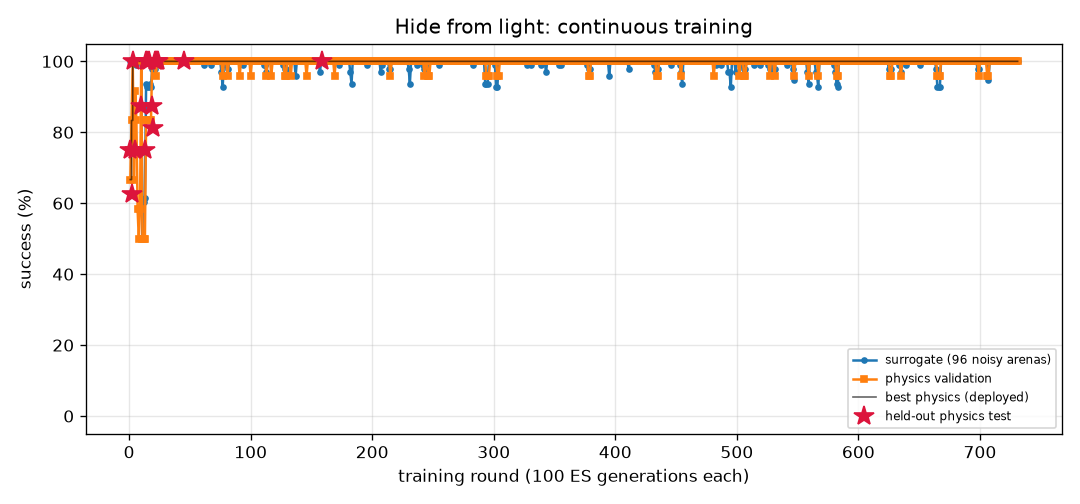
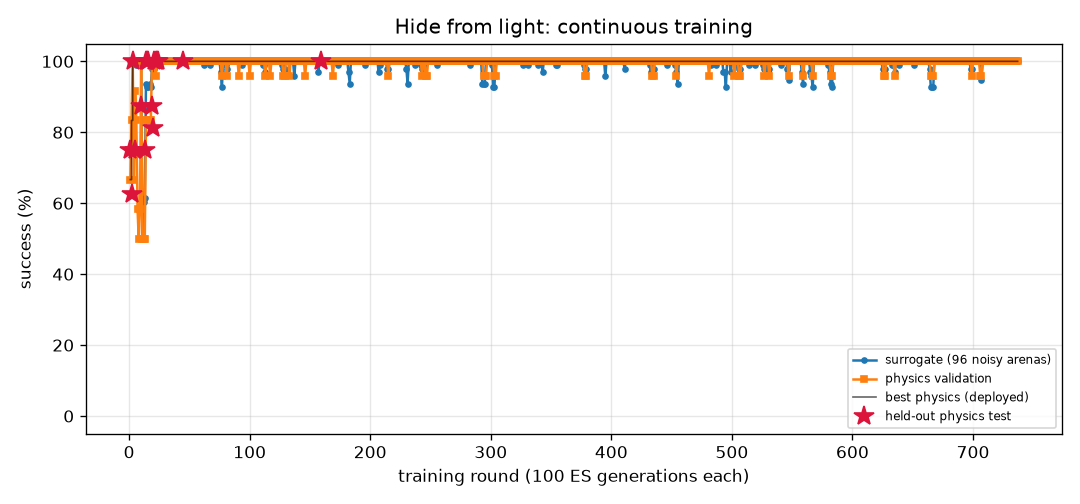
FlyLab: continuous training progress
- walk_forward: optimal, physics val 100% of 24, round 444
- turn: optimal, physics val 100% of 24, round 1192
- goto: optimal, physics val 100% of 24, round 344
- odor_seek: optimal, physics val 100% of 24, round 276
- odor_avoid: optimal, physics val 100% of 24, round 1021
- light_seek: optimal, physics val 100% of 24, round 546
- light_avoid: optimal, physics val 100% of 24, round 737

diff --git a/projects/09_flylab/training/odor_avoid/REPORT.md b/projects/09_flylab/training/odor_avoid/REPORT.md
@@ -1,14 +1,14 @@
 # Escape a bad smell (`odor_avoid`) — training report
 
-*Auto-generated by `train_brains.py`, last updated 2026-11-19T23:46:27.*
+*Auto-generated by `train_brains.py`, last updated 2026-11-20T11:23:37.*
 
 ![curve](curve.png)
 
 | | |
 |---|---|
-| rounds | 1014 |
-| ES generations | 101400 |
-| physics runs | 21642 |
+| rounds | 1021 |
+| ES generations | 102100 |
+| physics runs | 21810 |
 | status | **optimal** |
 | best brain | round 373: physics validation **100%** on 24 arenas, surrogate 97% |
 | held-out physics test | **97%** on 32 unseen arenas (95% CI 84%-99%) (errors: [62.0, 57.4, 62.6, 61.9, 59.0, 61.6, 56.5, 60.7, 31.7, 60.9, 63.1, 57.1, 61.1, 62.1, 61.5, 60.2, 62.2, 55.2, 62.1, 54.2, 61.3, 62.0, 58.0, 61.9, 59.8, 56.5, 56.3, 56.4, 56.3, 57.7, 61.9, 32.4]) |
@@ -17,13 +17,6 @@ Physics error per arena: mm gained away from source (> 6 without first approachi
 
 | round | level | gens | sigma | surrogate | physics val | val errors | test | note |
 |---:|---:|---:|---:|---:|---:|---|---:|---|
-| 975 | 3 | 97500 | 0.026 | 95% | 96% | [63.1, 61.4, 55.3, 61.3, 62.6, 62.4, 61.3, 62.4, 61.6, 50.9, 50.6, 61.5, 48.0, 55.0, 29.8, 62.6, 61.9, 61.9, 54.1, 60.4, 61.7, 63.1, 56.7, 63.4] |  |  |
-| 976 | 3 | 97600 | 0.027 | 95% | 96% | [62.7, 59.4, 55.8, 59.0, 60.1, 52.3, 61.0, 62.2, 59.4, 49.6, 31.5, 61.1, 50.9, 55.4, 29.8, 60.8, 60.9, 58.6, 52.7, 58.9, 61.3, 62.8, 56.4, 62.7] |  |  |
-| 977 | 3 | 97700 | 0.027 | 95% | 100% | [62.6, 56.7, 57.9, 56.6, 60.6, 60.5, 59.9, 18.4, 59.2, 37.2, 58.9, 60.9, 52.4, 55.5, 40.6, 61.6, 61.4, 60.5, 54.4, 56.9, 61.6, 49.8, 56.8, 61.8] |  | restart from best |
-| 978 | 3 | 97800 | 0.026 | 97% | 96% | [63.4, 57.7, 56.1, 61.4, 62.4, 62.0, 61.8, 45.4, 60.8, 59.7, 62.3, 61.8, 55.1, 56.2, 40.9, 61.4, 62.6, 60.7, 55.2, 55.7, 62.1, 60.7, 58.7, 58.3] |  |  |
-| 979 | 3 | 97900 | 0.026 | 94% | 92% | [62.3, 59.4, 56.5, 57.4, 61.1, 62.0, 60.2, 56.9, 60.5, 59.5, 60.6, 61.3, 47.4, 55.9, 42.7, 61.6, 61.9, 62.4, 54.9, 56.5, 62.0, 59.3, 58.0, 36.0] |  |  |
-| 980 | 3 | 98000 | 0.028 | 95% | 100% | [62.4, 59.6, 56.1, 60.8, 60.8, 60.0, 61.9, 38.7, 61.7, 49.6, 57.1, 61.5, 49.8, 52.4, 41.6, 60.7, 61.9, 61.6, 53.7, 56.4, 61.7, 50.2, 59.6, 52.4] |  |  |
-| 981 | 3 | 98100 | 0.027 | 97% | 96% | [63.5, 58.8, 56.0, 58.1, 61.9, 62.9, 61.3, 57.7, 60.2, 61.5, 61.4, 62.2, 54.8, 56.4, 45.6, 61.3, 62.4, 62.6, 55.3, 54.0, 62.4, 61.5, 57.4, 60.2] |  | restart from best |
 | 982 | 3 | 98200 | 0.026 | 97% | 96% | [62.9, 59.0, 56.3, 61.6, 62.3, 62.4, 61.7, 29.7, 61.0, 60.2, 62.0, 62.4, 52.0, 54.2, 33.5, 61.7, 62.3, 61.4, 55.4, 56.8, 62.5, 58.7, 59.2, 50.2] |  |  |
 | 983 | 3 | 98300 | 0.026 | 96% | 96% | [62.0, 59.8, 56.0, 59.6, 61.4, 61.8, 62.2, 27.2, 62.1, 43.2, 61.3, 61.8, 52.3, 54.6, 30.3, 60.9, 61.9, 60.6, 54.4, 56.5, 61.7, 57.7, 59.8, 49.5] |  |  |
 | 984 | 3 | 98400 | 0.026 | 97% | 92% | [59.4, 54.6, 55.2, 56.3, 59.9, 47.5, 59.9, 2.8, 58.2, 15.6, 3.6, 60.0, 46.9, 52.5, 41.6, 58.9, 59.6, 38.3, 48.8, 52.6, 59.9, 35.0, 55.3, 18.9] |  |  |
@@ -57,3 +50,10 @@ Physics error per arena: mm gained away from source (> 6 without first approachi
 | 1012 | 3 | 101200 | 0.026 | 95% | 96% | [59.4, 55.7, 55.6, 56.3, 60.5, 60.3, 59.4, 15.8, 59.5, 46.1, 33.3, 61.4, 51.1, 55.1, 38.3, 60.5, 61.0, 60.4, 54.5, 54.4, 61.4, 31.0, 56.2, 30.5] |  |  |
 | 1013 | 3 | 101300 | 0.027 | 97% | 96% | [61.2, 59.4, 57.3, 59.9, 60.4, 60.3, 61.3, 44.2, 59.7, 19.2, 35.0, 60.6, 51.5, 56.8, 43.7, 45.9, 60.8, 57.9, 51.8, 58.9, 60.4, 50.8, 59.0, 57.9] |  | restart from best |
 | 1014 | 3 | 101400 | 0.026 | 95% | 100% | [62.4, 60.0, 55.9, 58.1, 62.5, 62.0, 61.3, 45.4, 60.4, 60.1, 62.1, 62.4, 55.0, 56.1, 50.6, 62.2, 62.4, 61.2, 55.3, 56.8, 62.4, 62.1, 58.1, 33.6] |  |  |
+| 1015 | 3 | 101500 | 0.027 | 96% | 96% | [62.5, 60.0, 56.2, 58.3, 61.3, 61.9, 60.1, 54.4, 60.3, 60.0, 61.9, 60.9, 54.5, 57.4, 40.6, 60.9, 61.3, 61.2, 55.1, 57.0, 61.3, 59.5, 57.9, 44.1] |  |  |
+| 1016 | 3 | 101600 | 0.026 | 94% | 100% | [62.4, 59.9, 56.4, 59.9, 61.5, 62.0, 61.5, 42.4, 62.4, 51.9, 41.6, 61.6, 47.8, 55.6, 31.4, 62.1, 61.5, 61.3, 52.4, 56.8, 61.8, 62.4, 59.7, 61.9] |  |  |
+| 1017 | 3 | 101700 | 0.028 | 97% | 96% | [61.2, 54.0, 56.1, 54.2, 61.2, 62.0, 59.8, 35.6, 59.2, 60.0, 32.0, 61.5, 50.2, 56.1, 36.1, 61.3, 61.5, 61.8, 53.4, 52.1, 61.3, 61.0, 55.6, 48.9] |  | restart from best |
+| 1018 | 3 | 101800 | 0.026 | 96% | 96% | [63.0, 61.1, 55.1, 61.4, 61.3, 52.5, 61.2, 62.2, 62.0, 57.4, 28.3, 61.3, 47.5, 55.4, 29.9, 57.4, 61.7, 60.2, 55.0, 60.8, 61.3, 62.6, 60.2, 62.9] |  |  |
+| 1019 | 3 | 101900 | 0.026 | 95% | 100% | [63.5, 61.2, 55.3, 61.7, 61.8, 55.4, 61.5, 62.3, 61.6, 59.8, 53.1, 61.4, 47.3, 53.7, 29.3, 61.5, 61.9, 47.4, 54.6, 59.8, 61.7, 61.9, 60.0, 62.5] |  |  |
+| 1020 | 3 | 102000 | 0.027 | 97% | 96% | [62.4, 61.0, 57.1, 57.1, 61.4, 61.6, 60.4, 48.5, 61.6, 60.9, 46.7, 61.1, 50.4, 56.0, 20.0, 55.8, 61.2, 61.8, 51.4, 59.2, 61.3, 58.2, 59.5, 60.9] |  |  |
+| 1021 | 3 | 102100 | 0.026 | 96% | 96% | [61.8, 56.4, 56.5, 58.9, 60.8, 61.3, 60.6, 24.7, 61.1, 60.4, 60.6, 61.2, 51.3, 56.9, 45.5, 55.7, 61.1, 61.5, 55.2, 57.2, 61.0, 54.1, 58.7, 52.4] |  | restart from best |

diff --git a/projects/09_flylab/training/light_avoid/REPORT.md b/projects/09_flylab/training/light_avoid/REPORT.md
@@ -1,14 +1,14 @@
 # Hide from light (`light_avoid`) — training report
 
-*Auto-generated by `train_brains.py`, last updated 2026-11-19T23:46:48.*
+*Auto-generated by `train_brains.py`, last updated 2026-11-20T11:21:27.*
 
 ![curve](curve.png)
 
 | | |
 |---|---|
-| rounds | 731 |
-| ES generations | 73100 |
-| physics runs | 17816 |
+| rounds | 737 |
+| ES generations | 73700 |
+| physics runs | 17960 |
 | status | **optimal** |
 | best brain | round 159: physics validation **100%** on 24 arenas, surrogate 100% |
 | held-out physics test | **100%** on 32 unseen arenas (95% CI 89%-100%) (errors: [14.4, 56.1, 58.0, 57.9, 57.5, 14.0, 14.4, 56.6, 56.8, 13.3, 14.1, 56.6, 57.6, 13.1, 57.3, 55.9, 57.2, 55.0, 55.2, 53.9, 55.2, 12.4, 53.8, 53.7, 14.1, 13.7, 55.0, 57.8, 56.2, 13.1, 52.8, 56.5]) |
@@ -17,12 +17,6 @@ Physics error per arena: mm gained away from source (> 6 without first approachi
 
 | round | level | gens | sigma | surrogate | physics val | val errors | test | note |
 |---:|---:|---:|---:|---:|---:|---|---:|---|
-| 692 | 3 | 69200 | 0.024 | 100% | 100% | [54.4, 56.7, 56.9, 54.6, 53.0, 54.3, 56.8, 14.5, 43.7, 13.5, 49.6, 52.6, 14.4, 51.0, 56.7, 54.5, 14.2, 54.0, 56.5, 14.4, 54.0, 52.0, 56.1, 51.7] |  |  |
-| 693 | 3 | 69300 | 0.024 | 100% | 100% | [42.1, 43.9, 44.4, 41.4, 40.3, 41.3, 44.6, 14.5, 39.5, 13.3, 39.3, 39.6, 14.4, 39.8, 44.5, 42.0, 14.2, 41.7, 44.6, 14.4, 37.8, 41.0, 45.1, 38.8] |  |  |
-| 694 | 3 | 69400 | 0.024 | 100% | 100% | [57.4, 61.7, 61.5, 59.1, 60.4, 59.2, 60.6, 14.5, 57.1, 13.5, 58.1, 60.1, 14.4, 58.2, 61.7, 59.7, 14.2, 61.0, 62.0, 14.4, 58.4, 58.6, 60.3, 59.5] |  |  |
-| 695 | 3 | 69500 | 0.024 | 100% | 100% | [53.7, 57.8, 57.8, 55.3, 53.9, 54.7, 57.6, 14.5, 12.8, 13.4, 50.5, 53.7, 14.4, 51.8, 57.9, 55.3, 14.2, 55.2, 57.3, 14.4, 54.6, 53.1, 57.0, 52.3] |  | restart from best |
-| 696 | 3 | 69600 | 0.024 | 100% | 100% | [42.6, 39.5, 39.7, 42.5, 44.4, 41.5, 39.0, 14.5, 35.1, 13.5, 43.7, 44.5, 14.4, 44.3, 39.7, 41.8, 14.2, 44.4, 39.6, 14.4, 41.5, 42.7, 38.0, 42.1] |  |  |
-| 697 | 3 | 69700 | 0.024 | 100% | 100% | [55.8, 58.2, 58.2, 56.3, 56.0, 55.4, 57.6, 14.5, 12.9, 13.4, 54.5, 55.7, 14.4, 53.5, 58.3, 55.3, 14.2, 56.7, 58.4, 14.4, 55.3, 54.5, 57.2, 54.8] |  |  |
 | 698 | 3 | 69800 | 0.024 | 98% | 100% | [49.8, 49.5, 49.7, 49.3, 44.8, 49.1, 50.3, 14.5, 13.0, 13.4, 10.2, 43.7, 14.4, 37.7, 49.7, 49.8, 14.2, 45.7, 49.8, 14.4, 49.7, 11.2, 50.3, 43.3] |  |  |
 | 699 | 3 | 69900 | 0.025 | 98% | 96% | [46.8, 49.0, 48.9, 47.5, 46.8, 47.4, 48.3, 14.5, 13.0, 13.4, 10.2, 46.3, 14.4, 8.0, 49.1, 46.8, 14.2, 47.3, 49.6, 14.4, 47.8, 11.3, 47.6, 45.8] |  | restart from best |
 | 700 | 3 | 70000 | 0.024 | 100% | 100% | [52.4, 53.7, 53.5, 52.6, 53.6, 53.1, 52.3, 14.5, 51.6, 13.4, 53.5, 53.4, 14.3, 51.7, 53.7, 52.7, 14.2, 53.9, 54.1, 14.4, 52.2, 53.4, 51.9, 52.9] |  |  |
@@ -57,3 +51,9 @@ Physics error per arena: mm gained away from source (> 6 without first approachi
 | 729 | 3 | 72900 | 0.024 | 100% | 100% | [42.3, 46.2, 44.1, 43.6, 46.8, 43.4, 43.0, 14.5, 45.5, 13.3, 47.1, 46.9, 14.4, 46.7, 44.8, 46.2, 14.2, 46.5, 46.0, 14.4, 43.3, 47.0, 42.9, 47.2] |  |  |
 | 730 | 3 | 73000 | 0.024 | 100% | 100% | [55.5, 59.2, 59.0, 55.8, 58.9, 55.8, 57.8, 14.5, 40.2, 13.3, 58.9, 58.7, 14.4, 56.9, 59.2, 54.6, 14.2, 59.4, 59.5, 14.4, 57.1, 58.7, 57.5, 58.2] |  |  |
 | 731 | 3 | 73100 | 0.024 | 100% | 100% | [44.0, 46.9, 46.1, 45.9, 49.8, 44.9, 45.0, 14.5, 48.8, 13.4, 49.6, 50.2, 14.4, 49.4, 46.3, 46.8, 14.2, 49.4, 46.9, 14.4, 45.4, 49.9, 44.0, 49.9] |  | restart from best |
+| 732 | 3 | 73200 | 0.024 | 100% | 100% | [51.5, 53.5, 53.6, 51.4, 49.6, 51.0, 53.9, 14.5, 45.5, 13.3, 50.4, 49.5, 14.4, 48.5, 53.9, 51.7, 14.2, 50.3, 53.7, 14.4, 49.5, 49.4, 53.2, 48.2] |  |  |
+| 733 | 3 | 73300 | 0.024 | 100% | 100% | [40.9, 40.7, 40.7, 41.5, 44.3, 41.0, 38.3, 14.5, 40.6, 13.4, 43.8, 43.6, 14.4, 43.8, 40.3, 42.3, 14.2, 43.7, 42.1, 14.4, 41.7, 44.4, 38.9, 44.5] |  |  |
+| 734 | 3 | 73400 | 0.024 | 100% | 100% | [35.6, 36.8, 35.3, 37.3, 37.8, 37.0, 34.2, 14.5, 37.4, 13.3, 37.3, 39.0, 14.4, 38.2, 36.1, 37.7, 14.2, 37.8, 35.6, 14.4, 38.1, 38.6, 33.7, 39.0] |  |  |
+| 735 | 3 | 73500 | 0.024 | 100% | 100% | [56.6, 61.9, 61.7, 58.4, 61.6, 58.8, 60.2, 14.5, 57.5, 13.4, 60.5, 61.4, 14.4, 59.2, 61.7, 57.2, 14.2, 62.1, 62.2, 14.4, 59.1, 60.5, 60.0, 60.8] |  | restart from best |
+| 736 | 3 | 73600 | 0.024 | 100% | 100% | [50.2, 51.9, 51.7, 50.3, 50.3, 50.5, 50.9, 14.5, 46.6, 13.5, 51.7, 49.9, 14.4, 49.1, 51.8, 50.3, 14.2, 50.8, 52.1, 14.4, 49.2, 51.5, 50.7, 49.3] |  |  |
+| 737 | 3 | 73700 | 0.024 | 100% | 100% | [48.4, 48.8, 49.1, 48.4, 43.9, 47.8, 49.1, 14.5, 41.1, 13.5, 46.2, 43.6, 14.4, 44.8, 48.8, 48.7, 14.2, 45.7, 48.9, 14.4, 46.9, 45.8, 49.2, 42.6] |  |  |

diff --git a/projects/09_flylab/training/turn/REPORT.md b/projects/09_flylab/training/turn/REPORT.md
@@ -1,14 +1,14 @@
 # Turn in place (`turn`) — training report
 
-*Auto-generated by `train_brains.py`, last updated 2026-11-20T10:20:35.*
+*Auto-generated by `train_brains.py`, last updated 2026-11-20T10:28:01.*
 
 ![curve](curve.png)
 
 | | |
 |---|---|
-| rounds | 1191 |
-| ES generations | 119100 |
-| physics runs | 28830 |
+| rounds | 1192 |
+| ES generations | 119200 |
+| physics runs | 28854 |
 | status | **optimal** |
 | best brain | round 80: physics validation **100%** on 24 arenas, surrogate 100% |
 | held-out physics test | **97%** on 32 unseen arenas (95% CI 84%-99%) (errors: [1.6, 3.3, 6.3, 3.7, 1.1, 0.4, 2.4, 2.9, 0.1, 2.6, 0.5, 2.7, 1.5, 3.1, 4.5, 0.2, 0.5, 1.1, 2.0, 4.4, 2.8, 3.2, 0.3, 2.2, 0.5, 3.0, 0.3, 5.4, 0.4, 1.0, 4.7, 10.7]) |
@@ -17,7 +17,6 @@ Physics error per arena: deg from target heading (< 20 = success).
 
 | round | level | gens | sigma | surrogate | physics val | val errors | test | note |
 |---:|---:|---:|---:|---:|---:|---|---:|---|
-| 1152 | 3 | 115200 | 0.025 | 100% | 100% | [5.3, 8.8, 7.1, 1.6, 0.8, 3.2, 1.5, 0.4, 1.3, 0.7, 1.2, 1.8, 1.3, 4.7, 2.3, 17.4, 1.9, 1.0, 0.3, 1.2, 6.1, 1.1, 2.3, 2.5] |  | restart from best |
 | 1153 | 3 | 115300 | 0.024 | 100% | 67% | [4.1, 2.2, 6.3, 0.0, 0.6, 0.9, 5.4, 10.2, 6.4, 14.3, 5.2, 1.1, 0.2, 1.4, 4.9, 1.6, 0.5, 2.6, 2.4, 2.5, 4.2, 2.9, 7.0, 6.5] |  |  |
 | 1154 | 3 | 115400 | 0.024 | 99% | 75% | [7.2, 11.2, 3.5, 2.2, 4.6, 7.2, 2.0, 0.1, 3.6, 0.1, 2.9, 2.6, 1.5, 4.6, 5.2, 0.4, 2.1, 0.3, 0.6, 1.2, 6.7, 0.1, 4.1, 2.4] |  |  |
 | 1155 | 3 | 115500 | 0.025 | 99% | 88% | [9.3, 6.9, 0.1, 1.8, 9.4, 2.0, 9.8, 10.9, 9.4, 4.1, 5.6, 5.2, 1.0, 1.4, 5.9, 4.3, 5.4, 7.3, 5.0, 9.5, 2.1, 2.6, 9.5, 10.9] |  |  |
@@ -57,3 +56,4 @@ Physics error per arena: deg from target heading (< 20 = success).
 | 1189 | 3 | 118900 | 0.024 | 100% | 88% | [1.5, 4.7, 7.3, 2.1, 4.6, 2.2, 6.7, 7.9, 4.6, 1.3, 5.2, 2.2, 1.3, 0.3, 5.9, 3.7, 0.7, 2.7, 3.5, 3.4, 5.7, 3.0, 5.0, 7.7] |  |  |
 | 1190 | 3 | 119000 | 0.024 | 99% | 75% | [0.9, 3.8, 8.8, 2.2, 0.6, 2.6, 7.9, 9.4, 7.1, 1.8, 6.1, 2.8, 3.2, 1.3, 5.9, 4.0, 0.3, 3.2, 4.1, 4.4, 2.5, 3.0, 9.1, 5.1] |  |  |
 | 1191 | 3 | 119100 | 0.025 | 100% | 96% | [0.4, 1.4, 2.6, 0.3, 1.4, 2.9, 3.9, 5.4, 6.9, 0.9, 3.9, 1.6, 0.4, 1.9, 2.9, 1.9, 1.0, 0.8, 1.6, 1.4, 3.1, 2.0, 5.3, 5.5] |  |  |
+| 1192 | 3 | 119200 | 0.024 | 99% | 71% | [7.2, 6.2, 0.5, 0.3, 2.4, 1.5, 4.3, 5.2, 5.6, 0.9, 5.0, 0.3, 0.2, 2.4, 3.3, 0.3, 0.3, 1.8, 0.0, 0.4, 3.4, 1.2, 5.9, 6.1] |  | restart from best |

diff --git a/projects/09_flylab/training/TRAINING.md b/projects/09_flylab/training/TRAINING.md
@@ -1,15 +1,15 @@
 # FlyLab brains — continuous training log
 
-*Auto-generated by `train_brains.py`, last updated 2026-11-20T10:20:37.*
+*Auto-generated by `train_brains.py`, last updated 2026-11-20T11:23:37.*
 
 Every skill has its own brain and its own training process: surrogate ES rounds, physics validation in MuJoCo, keep-the-best selection, and a held-out physics test that is never used for selection. See each skill's report for its full round-by-round history. Mastery is progressive: passing a level (100% physics validation, >=95% surrogate) doubles the validation and test arena sets; a brain is **optimal** once it holds up at level 3 (>=95% of 24 validation arenas) AND scores >=90% on the 32 held-out test arenas. Test columns show 95% Wilson confidence intervals.
 
 | skill | rounds | ES generations | physics runs | surrogate | physics val | **physics test** | status |
 |---|---:|---:|---:|---:|---:|---:|---|
 | [Walk forward](walk_forward/REPORT.md) | 444 | 44400 | 10702 | 99% | 100% of 24 | 100% of 32 (CI 89-100%) | **optimal** |
-| [Turn in place](turn/REPORT.md) | 1191 | 119100 | 28830 | 100% | 100% of 24 | 97% of 32 (CI 84-99%) | **optimal** |
+| [Turn in place](turn/REPORT.md) | 1192 | 119200 | 28854 | 100% | 100% of 24 | 97% of 32 (CI 84-99%) | **optimal** |
 | [Go to a location](goto/REPORT.md) | 344 | 34400 | 8206 | 100% | 100% of 24 | 100% of 32 (CI 89-100%) | **optimal** |
 | [Find food by smell](odor_seek/REPORT.md) | 276 | 27600 | 6118 | 100% | 100% of 24 | 100% of 32 (CI 89-100%) | **optimal** |
-| [Escape a bad smell](odor_avoid/REPORT.md) | 1014 | 101400 | 21642 | 97% | 100% of 24 | 97% of 32 (CI 84-99%) | **optimal** |
+| [Escape a bad smell](odor_avoid/REPORT.md) | 1021 | 102100 | 21810 | 97% | 100% of 24 | 97% of 32 (CI 84-99%) | **optimal** |
 | [Walk toward light](light_seek/REPORT.md) | 546 | 54600 | 9984 | 100% | 100% of 24 | 100% of 32 (CI 89-100%) | **optimal** |
-| [Hide from light](light_avoid/REPORT.md) | 731 | 73100 | 17816 | 100% | 100% of 24 | 100% of 32 (CI 89-100%) | **optimal** |
+| [Hide from light](light_avoid/REPORT.md) | 737 | 73700 | 17960 | 100% | 100% of 24 | 100% of 32 (CI 89-100%) | **optimal** |
